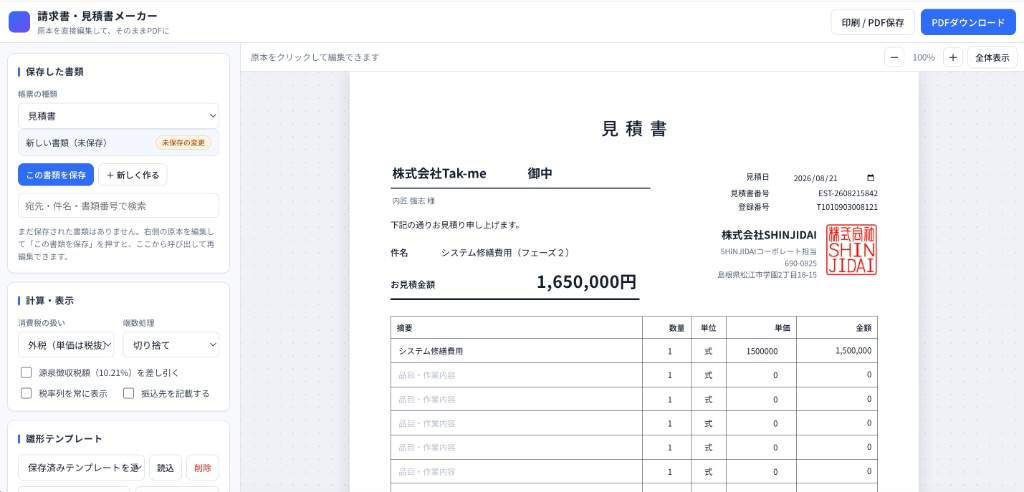
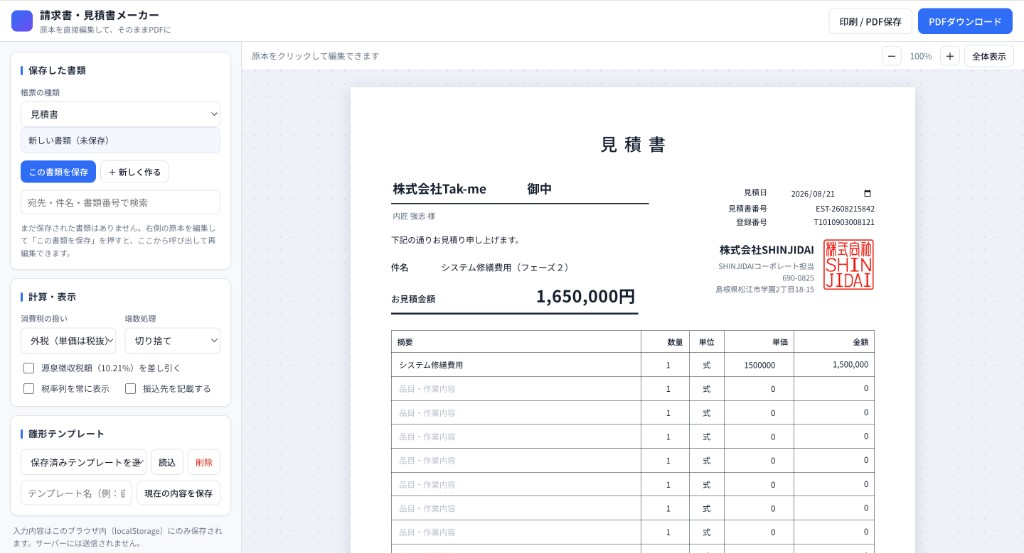
1

diff --git a/phases/03-contract.html b/phases/03-contract.html
@@ -42,9 +42,9 @@
           <li>内訳は「一式」で終わらせず、下の表の項目に分けて並べる</li>
           <li>備考に、前提・除外・やり直す条件を書く（次の見出し）</li>
         </ul>
-        <div class="grid-2">
+        <div class="grid-2 is-flush">
           <figure class="scene is-ui">
-            <img src="../img/tool-quote-editor.png" alt="請求書・見積書メーカーの編集画面。左に計算・表示の設定、右に見積書の原本が表示されている">
+            <img src="../img/tool-quote-editor.png?v=2" alt="請求書・見積書メーカーの編集画面。左に計算・表示の設定、右に見積書の原本が表示されている">
             <figcaption>右の原本をクリックして直接書き換える。左で消費税の扱いと端数処理を選ぶ</figcaption>
           </figure>
           <figure class="scene is-ui">

diff --git a/css/manual.css b/css/manual.css
@@ -415,6 +415,16 @@ li + li { margin-top: 6px; }
   background: #f3f4f6;
 }
 
+.grid-2.is-flush {
+  align-items: start;
+}
+
+.grid-2.is-flush > .scene.is-ui img {
+  aspect-ratio: auto;
+  object-fit: contain;
+  background: var(--white);
+}
+
 .scene.is-strip { max-width: none; }
 
 .scene.is-strip img {
